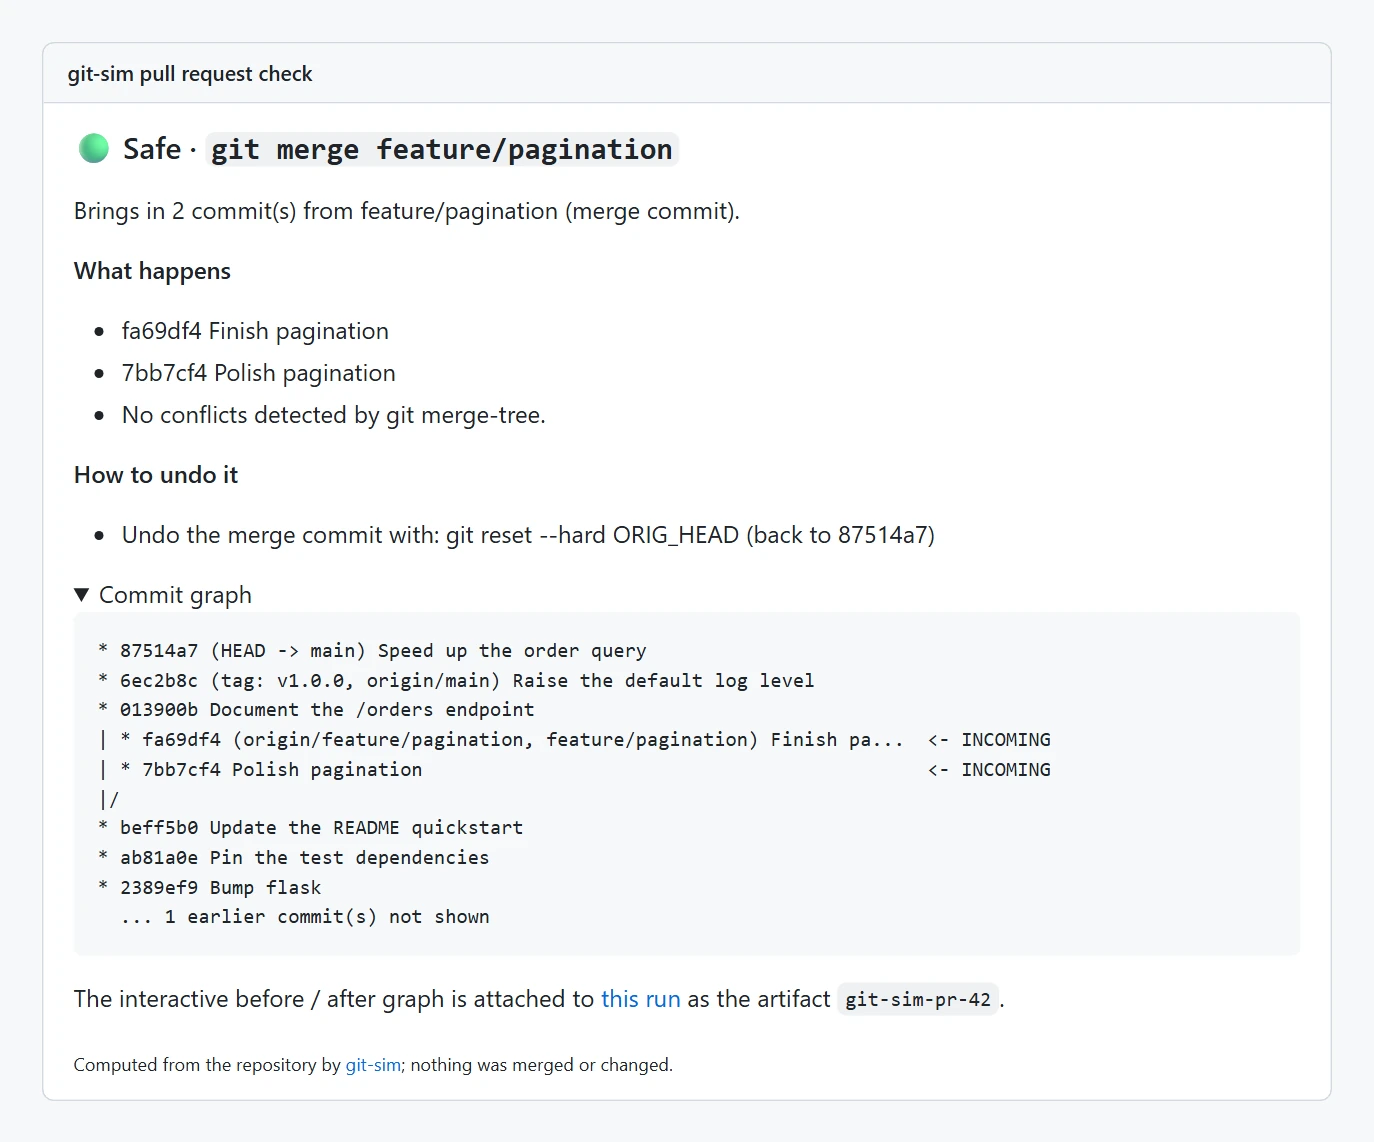
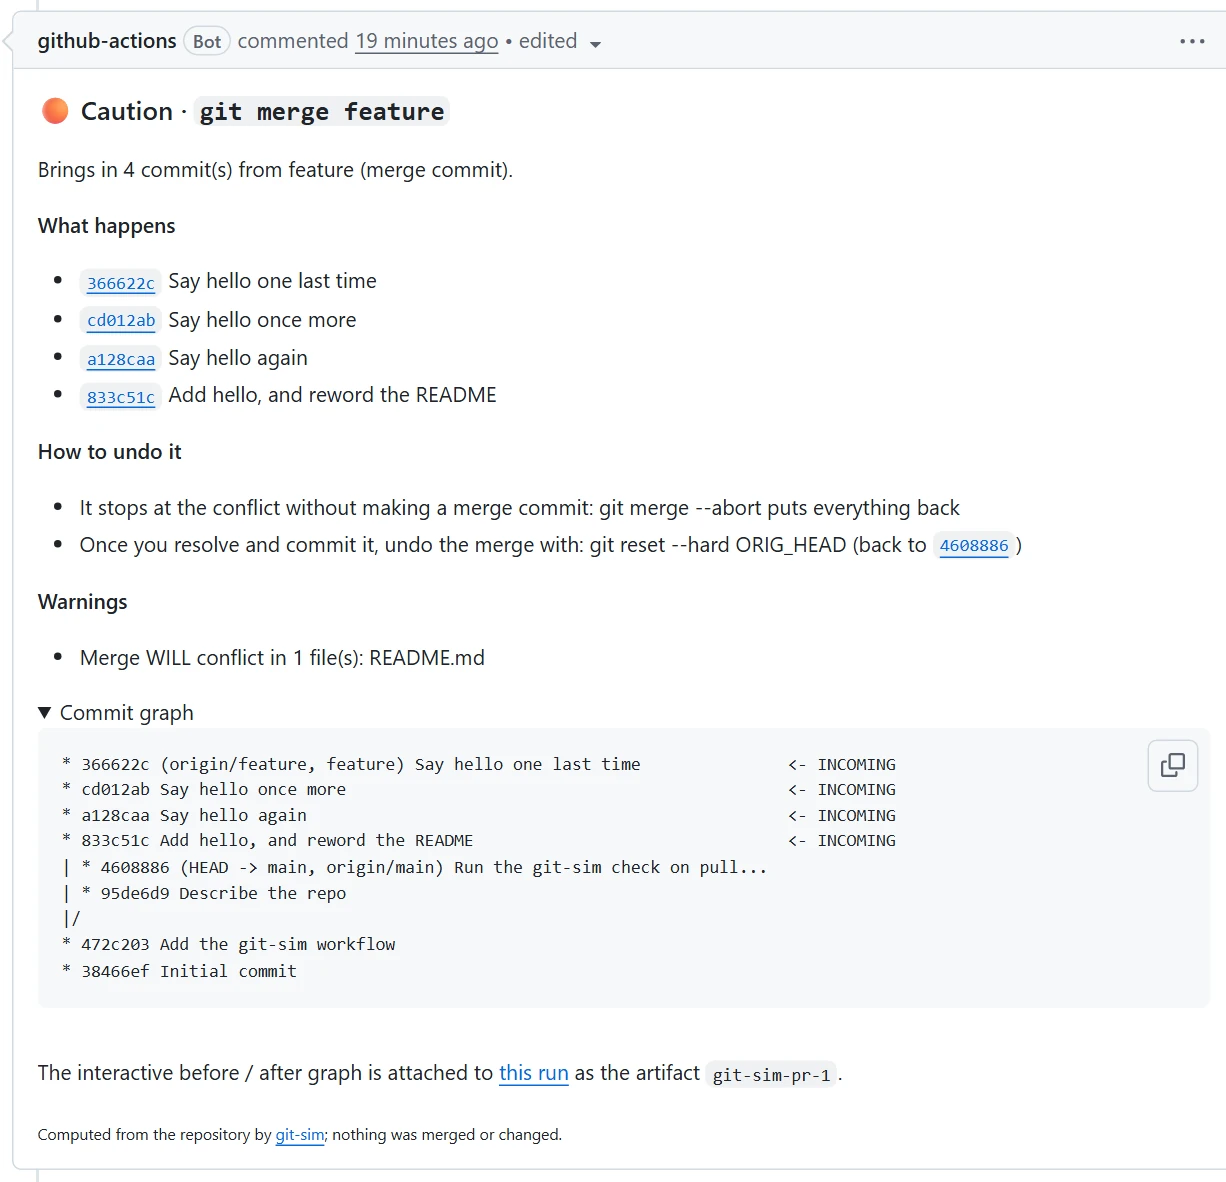
Show the GitHub Action's real comment in the README
The pull request image was a rendering of what the Action would post.
It's now a screenshot of the comment it posted on a test pull request:
a Caution verdict for the merge, git merge --abort to back out, the
conflict in README.md, and the commit graph.

diff --git a/README.md b/README.md
@@ -38,7 +38,7 @@
 
 **Automatically run git-sim on GitHub PR's**: The git-sim GitHub Action generates both textual and visual descriptions of the resulting PR merge, whether it is safe, and how to undo it.
 
-[![The git-sim GitHub Action's pull request comment: the risk, the commits coming in, how to undo the merge, and a text commit graph](https://raw.githubusercontent.com/initialcommit-com/git-sim/main/docs/img/pull-request.webp)](https://github.com/initialcommit-com/git-sim#github)
+[![The git-sim GitHub Action's comment on a pull request: a Caution verdict for the merge, the commits coming in, how to undo it, a warning that it will conflict in README.md, and a text commit graph](https://raw.githubusercontent.com/initialcommit-com/git-sim/main/docs/img/pull-request.webp)](https://github.com/initialcommit-com/git-sim#github)
 
 </td></tr></tbody>
 <tbody><tr><td>
